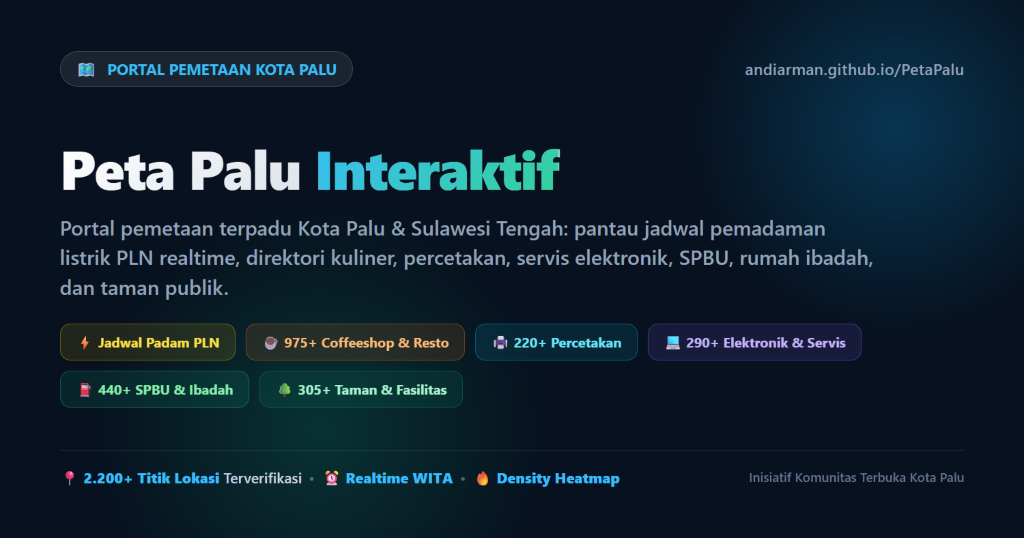
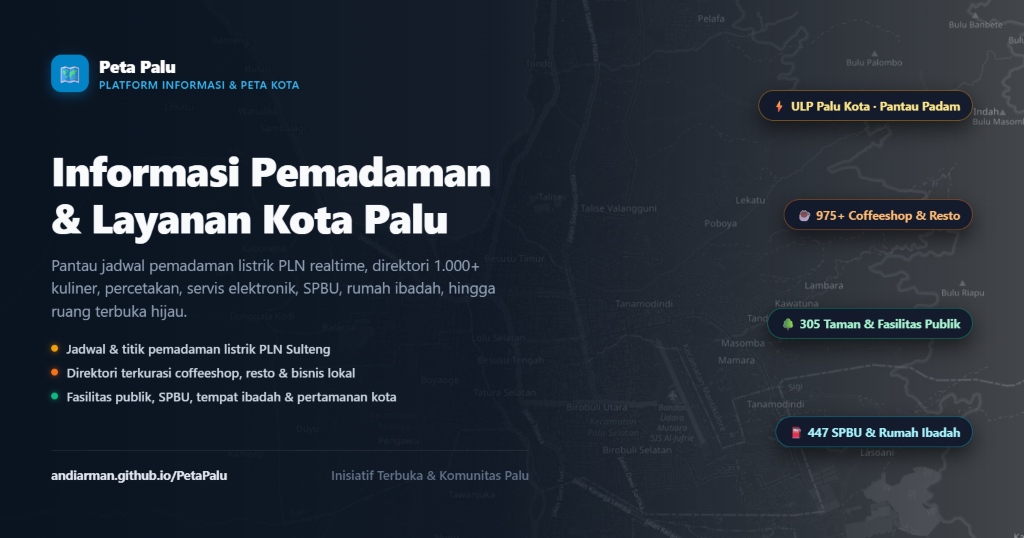
fix(og): ganti tampilan kartu share sesuai prinsip anti-slop (peta nyata Palu, tipografi bersih, tanpa orbs & gradien klise)

diff --git a/index.html b/index.html
@@ -3,29 +3,29 @@
   <head>
     <meta charset="UTF-8" />
     <meta name="viewport" content="width=device-width, initial-scale=1, viewport-fit=cover" />
-    <meta name="description" content="Peta interaktif Kota Palu &amp; Sulawesi Tengah: pantau jadwal pemadaman listrik PLN realtime, direktori kuliner, percetakan, servis elektronik, SPBU, tempat ibadah, dan taman kota." />
-    <title>Peta Palu — Portal Pemetaan Terpadu &amp; Jadwal Pemadaman Sulteng</title>
+    <meta name="description" content="Pantau jadwal pemadaman listrik PLN realtime serta peta lokasi coffeeshop, percetakan, servis elektronik, SPBU, tempat ibadah, dan taman di Kota Palu." />
+    <title>Peta Palu — Peta Pemadaman Listrik &amp; Layanan Kota</title>
     <link rel="canonical" href="https://andiarman.github.io/PetaPalu/" />
 
-    <!-- Open Graph (WhatsApp, Telegram, Facebook, Discord, LinkedIn) -->
+    <!-- Open Graph (WhatsApp, Telegram, Facebook, Threads, Discord, LinkedIn) -->
     <meta property="og:type" content="website" />
     <meta property="og:url" content="https://andiarman.github.io/PetaPalu/" />
     <meta property="og:site_name" content="Peta Palu" />
-    <meta property="og:title" content="Peta Palu — Portal Pemetaan Terpadu &amp; Jadwal Pemadaman Sulteng" />
-    <meta property="og:description" content="Peta interaktif Kota Palu &amp; Sulawesi Tengah: pantau jadwal pemadaman listrik PLN realtime, direktori kuliner, percetakan, servis elektronik, SPBU, tempat ibadah, dan taman kota." />
+    <meta property="og:title" content="Peta Palu — Peta Pemadaman Listrik &amp; Layanan Kota" />
+    <meta property="og:description" content="Pantau jadwal pemadaman listrik PLN realtime serta peta lokasi coffeeshop, percetakan, servis elektronik, SPBU, tempat ibadah, dan taman di Kota Palu." />
     <meta property="og:image" content="https://andiarman.github.io/PetaPalu/og-image.png" />
     <meta property="og:image:secure_url" content="https://andiarman.github.io/PetaPalu/og-image.png" />
     <meta property="og:image:type" content="image/png" />
     <meta property="og:image:width" content="1200" />
     <meta property="og:image:height" content="630" />
-    <meta property="og:image:alt" content="Peta Palu — Portal Pemetaan Terpadu Kota Palu &amp; Sulawesi Tengah" />
+    <meta property="og:image:alt" content="Peta Palu — Peta Pemadaman Listrik dan Layanan Kota" />
     <meta property="og:locale" content="id_ID" />
 
     <!-- Twitter Card (X / Twitter) -->
     <meta name="twitter:card" content="summary_large_image" />
     <meta name="twitter:url" content="https://andiarman.github.io/PetaPalu/" />
-    <meta name="twitter:title" content="Peta Palu — Portal Pemetaan Terpadu &amp; Jadwal Pemadaman Sulteng" />
-    <meta name="twitter:description" content="Peta interaktif Kota Palu &amp; Sulawesi Tengah: pantau jadwal pemadaman listrik PLN realtime, direktori kuliner, percetakan, servis elektronik, SPBU, tempat ibadah, dan taman kota." />
+    <meta name="twitter:title" content="Peta Palu — Peta Pemadaman Listrik &amp; Layanan Kota" />
+    <meta name="twitter:description" content="Pantau jadwal pemadaman listrik PLN realtime serta peta lokasi coffeeshop, percetakan, servis elektronik, SPBU, tempat ibadah, dan taman di Kota Palu." />
     <meta name="twitter:image" content="https://andiarman.github.io/PetaPalu/og-image.png" />
     <link rel="stylesheet" href="vendor/leaflet/leaflet.css" />
     <link rel="stylesheet" href="vendor/leaflet.markercluster/MarkerCluster.css" />
